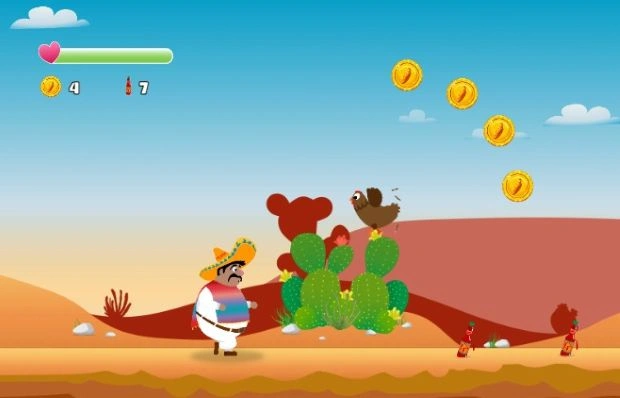
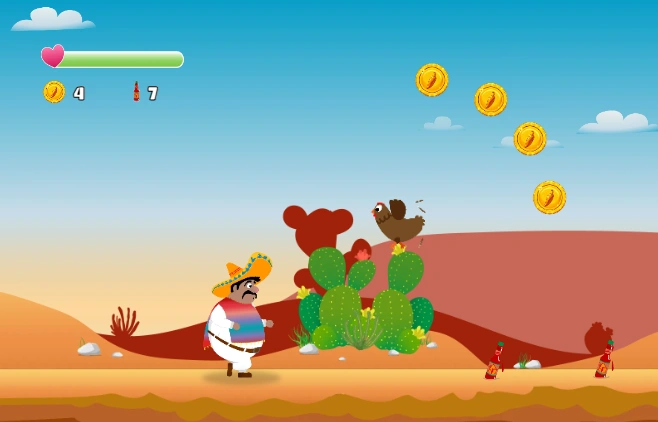
improved project section asset and animation

diff --git a/src/app/components/sections/section-projects/section-projects.scss b/src/app/components/sections/section-projects/section-projects.scss
@@ -53,7 +53,6 @@
             z-index: 1;
 
             clip-path: inset(0 100% 0 0);
-            // transition: clip-path 180ms ease-out;
             animation: draw-line 2000ms ease-out infinite alternate;
         }
 
@@ -98,7 +97,7 @@
         .highlight-sticker {
             position: absolute;
             left: 0;
-            bottom: 0;
+            bottom: 60px;
             width: $size-sticker;
             height: $size-sticker;
             z-index: 2;
@@ -106,7 +105,7 @@
 
         &:hover {
             .project-preview-highlight {
-                transform: scale(1.35);
+                animation: hoverzoom 250ms forwards;
             }
 
             .project-preview-img {
@@ -127,7 +126,7 @@
             height: 100%;
             top: 0;
             opacity: 0;
-            background: linear-gradient(transparent 50%, $color-base-dark 100%);
+            background: linear-gradient(transparent 50%, $color-base-dark 140%);
             transition: all 250ms ease-out;
         }
 

diff --git a/public/assets/styles/abstract/keyframes.scss b/public/assets/styles/abstract/keyframes.scss
@@ -100,6 +100,15 @@
     }
 }
 
+@keyframes hoverzoom {
+    0% {
+        transform: translateY(30px);
+    }
+    100% {
+        transform: translateY(30px) scale(1.35);
+    }
+}
+
 @keyframes draw-line {
     20% {
         clip-path: inset(0 100% 0 0);
